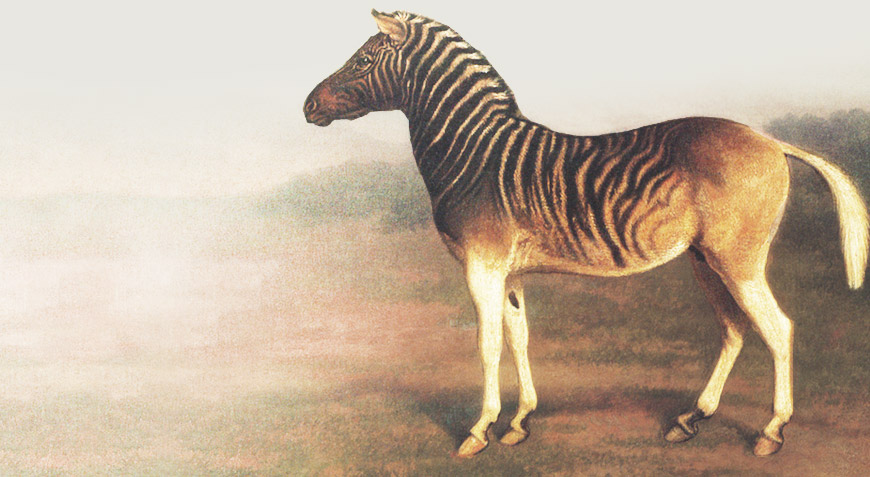
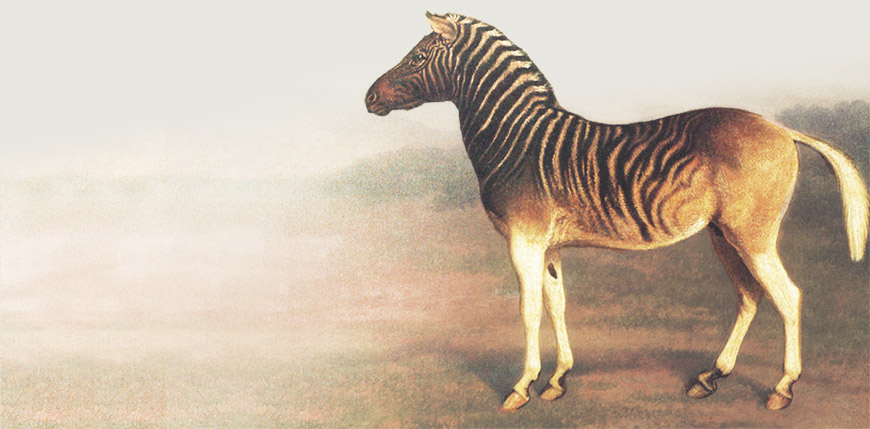
Updated Canidate Species Page, Fixes issue # 13

diff --git a/wordpress/wp-content/themes/rare/style.css b/wordpress/wp-content/themes/rare/style.css
@@ -67,6 +67,13 @@ img.aligncenter{
     font-size: 11px;
     text-shadow: 0 0 3px #fff;
 }
+.species-caption.white{
+    text-shadow: 0 0 3px #000;
+    color: #fff
+}
+.species-caption.dark{
+    color: #1d1c19;
+}
 .species-caption.top{
     top: 5%;
 }
@@ -86,7 +93,6 @@ img.aligncenter{
 .species-caption.right{
     right: 5%;
 }
-
 
 /* longphoto */
 #longphoto{
@@ -974,28 +980,31 @@ body.page-id-40 .body_block{
     background: #e8e7e0 url(ui/candidate-species_bg.jpg) bottom no-repeat;
     padding-bottom: 60px;
 }
+body.page-id-40 h2{
+    margin-bottom: 15px;
+}
+#candidate-species-box{
+    width: 370px;
+    float: right;
+    margin-right: 40px;
+}
 body.page-id-40 .cs-column{
-    width: 190px;
+    width: 175px;
     padding-right: 10px;
     float: left;
     position: relative;
     z-index: 1000;
 }
-body.page-id-40 .cs-column.first{
-    margin-left: 40px;
-}
+
 #candidate-edge-box{
-    padding: 30px 350px 30px 30px;
-    margin-right: 100px;
-    margin-top: 10px;
-    background: #fff;
-    border-top: 1px solid #cfcec8;
-    border-bottom: 1px solid #cfcec8;
     position: relative;
+    text-align: right;
+    margin-left: 60px;
+    margin-top: 20px;
 }
 #candidate-edge-box p{
     margin: 0;
-    font-size: 14px;
+    font-size: 11px;
 }
 #cuban-macaw{
     background: url(ui/species-cuban-macaw.png) no-repeat;
@@ -1003,39 +1012,34 @@ body.page-id-40 .cs-column.first{
     height: 477px;
     position: absolute;
     right: -70px;
-    top: -150px;
+    top: -220px;
     z-index: 100;
 }
 #candidate-criteria-box{
-    margin: 40px 40px;
-}
-#candidate-criteria-box .criteria-column.first{
-    width: 50%;
-    padding-right: 10%;
+    width: 400px;
+    margin-left: 40px;
+    padding-right: 20px;
     float: left;
 }
-#candidate-criteria-box .criteria-column.last{
-    width: 40%;
-    padding-top: 40px;
-    float: left;
+.criteria-last{
+    margin-top: 100px;
 }
-#candidate-criteria-box .criteria-column ul{
-    margin-bottom: 80px;
+#candidate-criteria-box ul{
+    margin-bottom: 40px;
 }
-#candidate-criteria-box .criteria-column ul li{
+#candidate-criteria-box ul li{
     list-style: url(ui/list-orange-circle.png) circle;
     margin-bottom: 15px;
-    font-size: 15px;
-    margin: 0 0 7px 0;
+    font-size: 14px;
+    margin: 0 0 10px 0;
 }
-#candidate-criteria-box h2{
-    font:normal 3em 'EB Garamond', 'Goudy Old Style', 'Palatino', 'Book Antiqua', Georgia, serif;
-    color: #94907e;
-}
-#candidate-criteria-box .criteria-column h3{
+#candidate-criteria-box h3, #candidate-species-box h3{
     font: 700 15px "Open Sans", Helvetica, Arial, sans-serif;
+    margin-bottom: 10px;
 }
-
+#candidate-species-box h3{
+    margin-bottom: 0;
+}
 
 
 /* FAQ & Reading Layout, page id 55 */
@@ -1229,6 +1233,13 @@ body.parent-pageid-167 .body_block, body.page-id-167 .body_block, body.tedxdeext
 }
 body.tedxdeextinction .body_block h1{
     font-size: 32px;
+}
+body.page-id-40 .page-top-link{
+    text-align: left!important;
+    padding-left: 40px;
+}
+body.page-id-40 .page-top-link a{
+    color: #1d1c19;
 }
 body.parent-pageid-167 .page-top-link a, body.page-id-167 .page-top-link a{
     text-decoration: none!important;

diff --git a/wordpress/wp-content/themes/rare/content-candidate.php b/wordpress/wp-content/themes/rare/content-candidate.php
@@ -8,45 +8,33 @@
     <?php the_content(); ?>
 </div>
 
-<div class="cs-column first">
-    <?php the_field('cs_column_1'); ?>
-</div>
-
-<div class="cs-column">
-    <?php the_field('cs_column_2'); ?>
-</div>
-
-<div class="cs-column">
-    <?php the_field('cs_column_3'); ?>
-</div>
-
-<div class="cs-column last">
-    <?php the_field('cs_column_4'); ?>
-</div>
-
-<br class="clear" />
-
-
-
-<?php // edge box ?>
-
-<div id="candidate-edge-box">
-    <?php the_field('edge_box'); ?>
-    
-    <div id="cuban-macaw"></div>
-    
-</div>
 
 <div id="candidate-criteria-box">
     
     <h2><?php the_field('criteria_heading'); ?></h2>
     
-    <div class="criteria-column first">
         <?php the_field('criteria_column_1'); ?>
-    </div>
-    
-    <div class="criteria-column last">
+    <div class="criteria-last">
         <?php the_field('criteria_column_2'); ?>
     </div>
     
 </div>
+
+<div id="candidate-species-box">
+    <h2>Candidates</h2>
+    <div class="cs-column">
+        <?php the_field('cs_column_1'); ?>
+    </div>
+    <div class="cs-column">
+        <?php the_field('cs_column_2'); ?>
+    </div>
+    
+    <br class="clear" />
+    
+    <div id="candidate-edge-box">
+        <?php the_field('edge_box'); ?>
+    </div>
+    
+</div>
+
+<div class="species-caption center bottom white"><strong>Quagga</strong><br /><em>Extinct: 1883</em></div>
